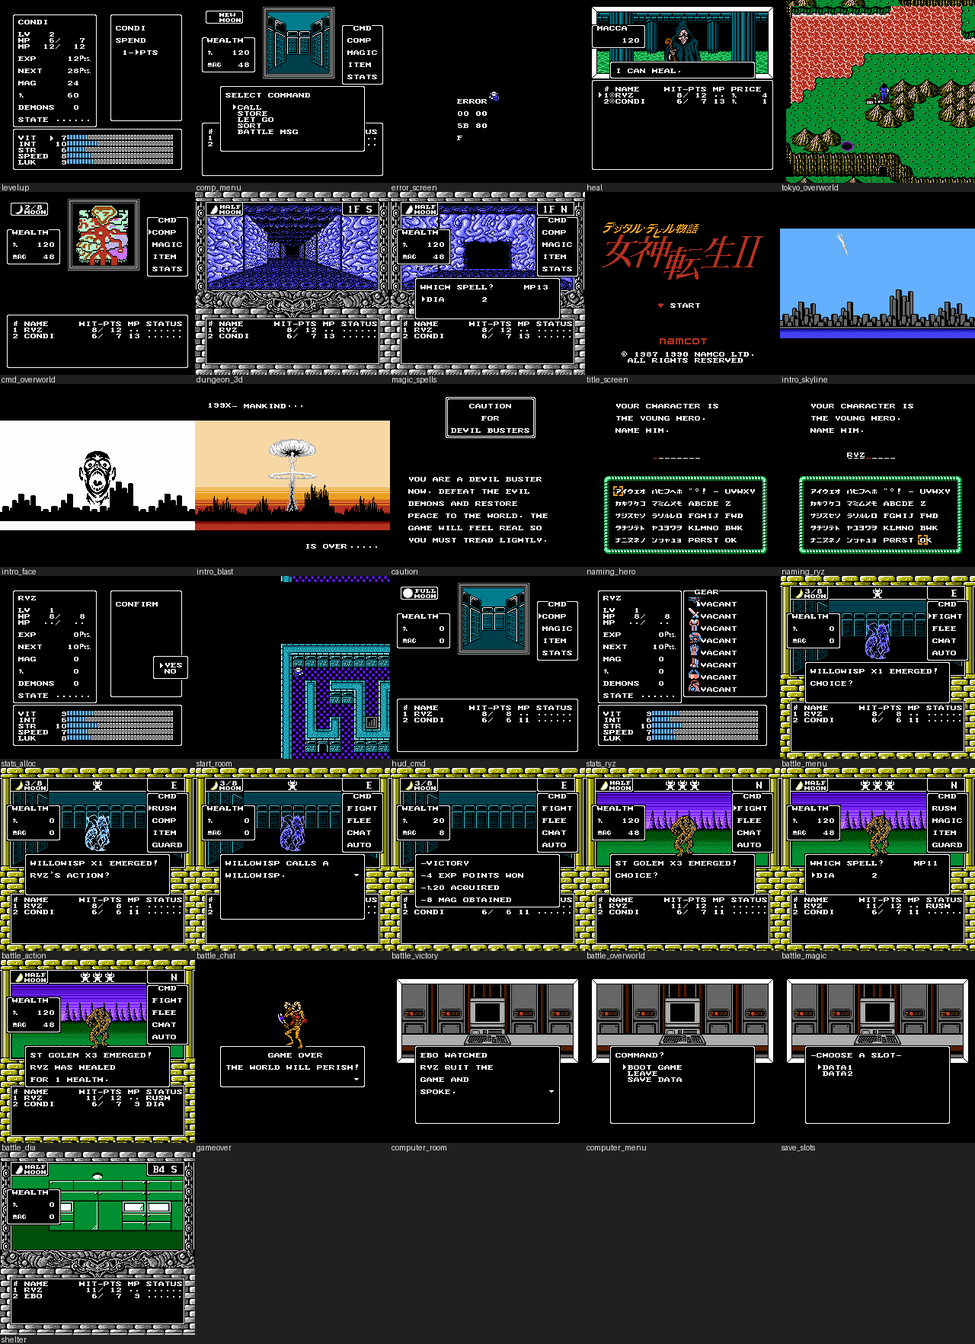
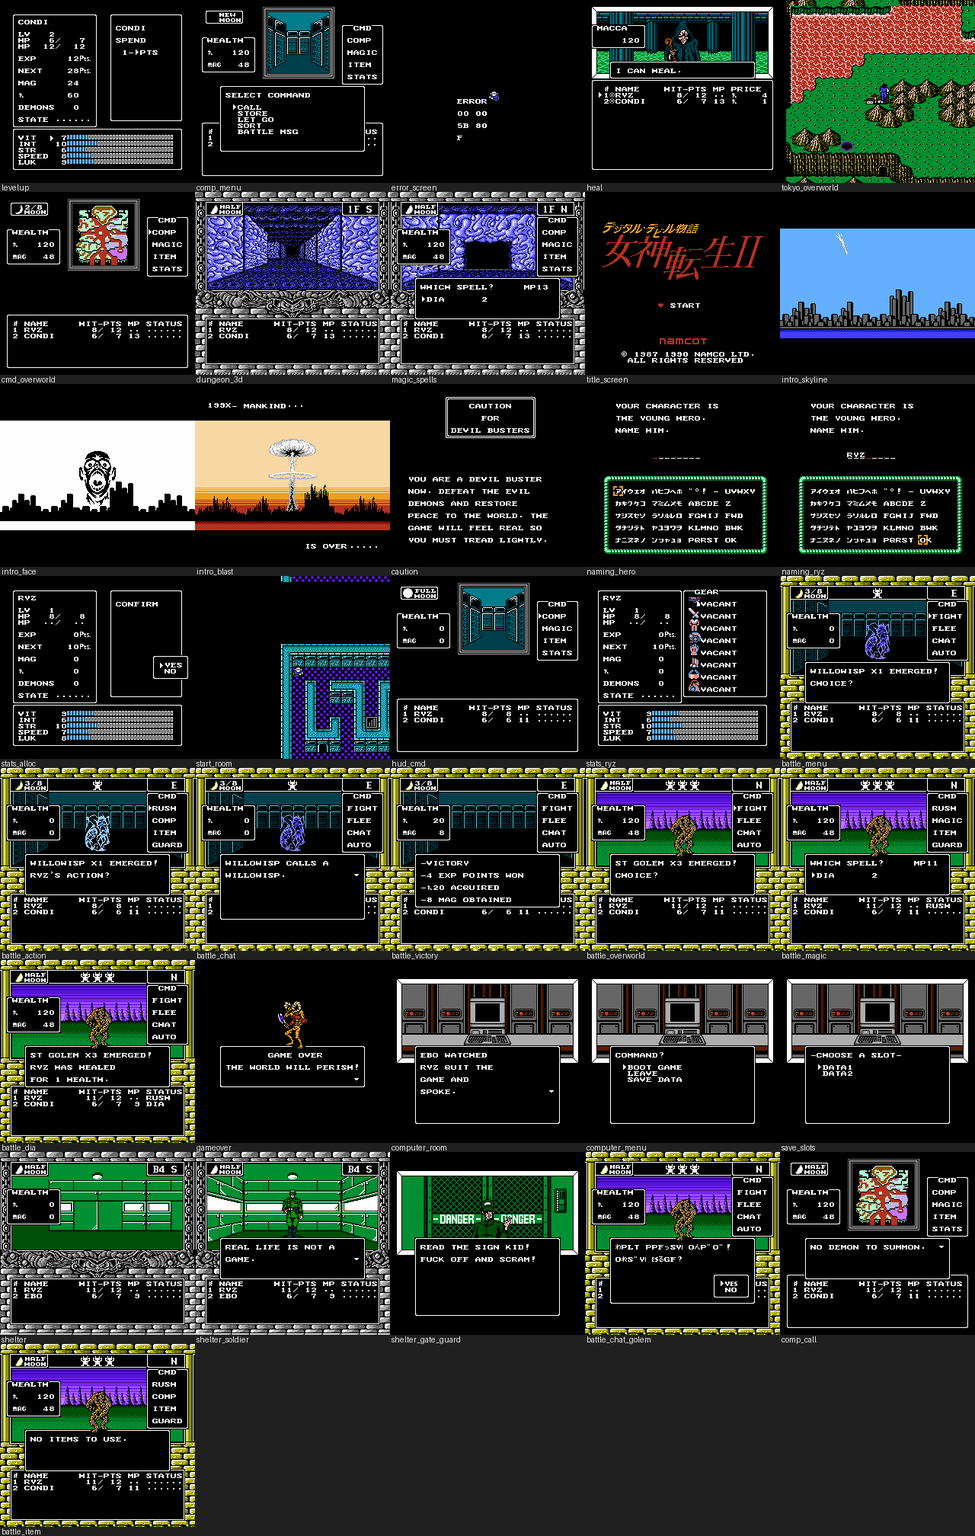
megami-tensei-2: capture - shelter, overworld, battle systems, design docs (36 shots)
Claude-Session: https://claude.ai/code/session_011YfKei1TQGbzBteuhtGM2R

diff --git a/games/megami-tensei-2/playbook.md b/games/megami-tensei-2/playbook.md
@@ -81,26 +81,29 @@ Round macro idea: `a,w60,a,w60,a,w60,a,w400` = FIGHT, RYZ RUSH, CONDI RUSH, YES.
   20 Makka, 8 MAG).
 
 ## Shot plan
-Routed lines are in `shots.txt` (15 shots, frames checked by the scout). Must-haves from the capture guide:
-- [ ] `title_screen` - title; `intro_skyline`, `intro_face`, `intro_blast` - cutscene (attract intro)
-- [ ] `caution` - cutscene - Devil Buster's opening text
-- [ ] `naming_hero`, `naming_ryz`, `stats_alloc` - menu
-- [ ] `start_room` - gameplay - first control in the Devil Buster maze
-- [ ] `hud_cmd` - hud - field command screen
-- [ ] `stats_ryz` - inventory - status page
-- [ ] `battle_menu`, `battle_action`, `battle_chat`, `battle_victory` - battle
+Capture run 2026-11-18: 36 shots in `main` (`shots.txt`, published to `shots/main/`). Ticked = captured (other id in
+brackets). Must-haves from the capture guide:
+- [x] `title_screen` - title; `intro_skyline`, `intro_face`, `intro_blast` - cutscene (attract intro)
+- [x] `caution` - cutscene - Devil Buster's opening text
+- [x] `naming_hero`, `naming_ryz`, `stats_alloc` - menu
+- [x] `start_room` - gameplay - first control in the Devil Buster maze
+- [x] `hud_cmd` (+ `cmd_overworld`) - hud - field command screen
+- [x] `stats_ryz` - inventory - status page
+- [x] `battle_menu`, `battle_action`, `battle_chat`, `battle_victory` - battle
 - [ ] `pazuzu` - cutscene/dialogue - Pazuzu after Devil Buster (needs Devil Buster finished)
-- [ ] `shelter` - gameplay - the shelter (real world, first town)
-- [ ] `save_slots` - save - the computer's SAVE DATA / "Choose a slot" screen
-- [ ] `tokyo_overworld` - map/gameplay - ruined Tokyo overhead
-- [ ] `dungeon_3d` - gameplay - first-person view in a dungeon (if dungeons switch to full 3D)
+- [x] `shelter` (+ `shelter_soldier`, `shelter_gate_guard`) - gameplay - the shelter (real world, first town)
+- [x] `save_slots` (+ `computer_menu`, `computer_room`) - save - the computer's SAVE DATA / "Choose a slot" screen
+- [x] `tokyo_overworld` - map/gameplay - ruined Tokyo overhead
+- [x] `dungeon_3d` - gameplay - first-person view in a dungeon (if dungeons switch to full 3D)
 - [ ] `automap` - map - the auto-mapping program
-- [ ] `comp_summon`, `demon_joined` - system - a demon recruited by CHAT and summoned
+- [ ] `comp_summon`, `demon_joined` (no demon joined; captured `comp_menu`, `comp_call`, `magic_spells`) - system - a demon recruited by CHAT and summoned
 - [ ] `fusion` - system - fusing two demons
-- [ ] `shop`, `heal` - shop/system
-- [ ] `levelup` - battle; `boss_nebro` - boss (B8); `tokyo_tower_witch` - dialogue
-- [ ] `gameover` - gameover
-How to reach: everything up to `battle_victory` is a checkpoint here. The rest needs Devil Buster finished
+- [ ] `shop` (not found), [x] `heal` - shop/system
+- [x] `levelup` - battle (+ `battle_magic`, `battle_dia`, `battle_item`, `battle_overworld`, `battle_chat_golem`); [ ] `boss_nebro` - boss (B8); `tokyo_tower_witch` - dialogue
+- [x] `gameover` - gameover
+Extra: `error_screen` (leftover debug screen). Not captured: `pazuzu`, `automap`, `fusion`, `shop`, `boss_nebro`,
+`tokyo_tower_witch`, a joined/summoned demon (see Strategy, capture run).
+How to reach (scout): everything up to `battle_victory` is a checkpoint here. The rest needs Devil Buster finished
 (play: floors via stairs, HP frozen, enemies' HP poked to 1), then the shelter (save there, export `01_start`).
 
 ## Strategy and walkthrough notes
@@ -113,6 +116,35 @@ How to reach: everything up to `battle_victory` is a checkpoint here. The rest n
   `down:16,w30` that changes x/y to 6F/0C) and a blue orb tile in an enclosure (not tried).
 - The goal of Devil Buster is not known yet (ROM: Pazuzu speaks after it); find the way down/the exit floor by floor
   and checkpoint every floor.
+
+### Capture run 2026-11-18: what worked
+- **The real world without finishing Devil Buster:** lose every hero inside Devil Buster (any battle; HP freezes do
+  not hold inside one token, a ST GOLEM x3 fight with `down*2,a,w10*25` killed the party). GAME OVER ("THE WORLD WILL
+  PERISH!") is followed by the computer room (EBO: "...QUIT THE GAME AND SPOKE."), then the computer menu BOOT GAME /
+  LEAVE / SAVE DATA (checkpoints `computer_room`, `computer_menu`). SAVE DATA > DATA1 saves (export `01_computer_room`);
+  LEAVE puts RYZ + EBO into the shelter B4 (checkpoint `shelter_b4`). Macca and MAG drop to 0. Whether the Pazuzu scene
+  (COMP summoning, auto-mapping, CONDI's magic) still comes later on this path is not known.
+- **No random encounters:** `freeze:037A=FF` (TCRF cheat list via web search; verified in Devil Buster, the overworld
+  and caves). TCRF also lists `04C5=FF` (alternative), `040C=01` (overworld wall walk), `DB04=FF` / `C091=FF` (wall walk),
+  and a controller-2 B debug toggle (no controller 2 here).
+- **Warps on overhead maps:** a position poke alone does not move collision. Poke `0431/0432` **8 frames into a stairs
+  transition** (step onto stairs, `w8`, poke, `w120`): the new map is drawn and walkable (frames 4-30 work). The area
+  byte `0436` decides which map and events apply at a position: the grey temple at 5B,7F is the healer's temple with
+  `0436=05`, and with `0436=04` its door (5B,7E) leads out to the Tokyo overworld at 11,2B (checkpoints `db_last`,
+  `overworld`).
+- **Event scan in first-person mazes:** poke `042F/0430` (and the copies `0433/0434`) to the square before the target
+  facing S, then `up:16,w24,w200`: the event of the target square fires. A 16x16 contact sheet of all squares finds
+  NPCs and stairs in one run (script idea from Megami Tensei I; shelter B4 events: soldier 04,05; DANGER-gate guards
+  05,07 0A,07 05,0F 0A,0F; stairs 00,02 0F,07 0F,0F). The floor below the B4 stairs (00,02) showed the same event
+  squares, so events seem to be per area, not per floor (`0436=01` in the shelter).
+- **Overhead explorer:** a breadth-first search over savestates (press each direction, keep new squares, log jumps as
+  stairs) mapped Devil Buster floor 8 and the overworld near 11,2B (the cave holes at 0E,2F and 1C,2B are cave
+  entrances). Moves are only reliable with `settle` between direction changes (`right:16,w24` per step).
+- Negotiation: answers change with the frame of the CHAT press (`wN` before it); 60 variations against a Willowisp
+  gave only "calls a Willowisp" / "THEY WILL NOT TALK!". ST GOLEMs asked YES/NO questions in untranslated text.
+- Dead ends: decoding how Devil Buster ends (floor-8 exit stairs inside a wall; the area-2 event table is empty) took
+  ~60 tool calls without an answer; the warp-table rom variant (`bytes` patch of the floor-1 stairs target) reproduced
+  the poke result exactly and was removed again.
 
 ## Naming
 Hero **RYZ**, girlfriend **CONDI**, best friend **EBO** (owner's rule; upper case is all the grid offers).
@@ -129,8 +161,9 @@ col 15 of rows 2/3/4. Cursor starts on ア (0,0) for every name. Macros `NAME_RY
 | Debug scenario list | 50 story points listed at ROM 0x16FB3 (see Game structure) | ROM text | how to open it unknown |
 | Saves from the web, codes | none found: TCRF, the manual PDF host (yojimbo.eludevisibility.org) are not reachable from here | - | - |
 
-### Saves (rom/saves/megami-tensei-2/, never committed)
-None downloaded. No in-game save before the shelter: the battery RAM at `start` holds no slot, so no `01_start`
+### Saves
+Exported: `games/megami-tensei-2/saves/01_computer_room.sav` (slot DATA1, RYZ/CONDI LV 2 at the home computer after
+the Devil Buster game over; see `saves/README.md`). None downloaded (rom/saves/megami-tensei-2/ is empty). No in-game save before the shelter: the battery RAM at `start` holds no slot, so no `01_start`
 export was made (the first export belongs after Devil Buster, at the computer's SAVE DATA).
 
 ## RAM map (for `game.json` "ram" watches and pokes)
@@ -145,6 +178,17 @@ export was made (the first export belongs after Devil Buster, at the computer's 
 | 050C / 050D | 1+1 | level RYZ / CONDI | peek (01 01) |
 | 053C + n | 1 | HP (low byte) of battle slot n: 0 RYZ, 1 CONDI, 12 (0548) first enemy; max HP at 0578 + n (enemy 0584); high bytes probably 0554 + n / 0590 + n | poke verified on screen |
 | 0564 + n | 1 | MP of slot n (0565 CONDI); max MP 05A0 + n | poke verified (MP 9) |
+| 037A | 1 | encounter control: `FF` held = no random battles | TCRF cheat (web search); verified |
+| 042F / 0430 | 1+1 | position in a first-person maze (x, y; S = y+1); copies at 0433/0434; on the overworld the world position | RAM diff; poke + step fires the target square's event (verified) |
+| 0436 | 1 | area: 03 Devil Buster floor 1, 02 other Devil Buster floors, 04 overworld, 05 building interiors, 01 shelter | peek after warps; set from the warp's target byte through a table at $D82F |
+| 0438 | 1 | area number of the last warp (byte 4 of a warp entry) | code at $DD08 |
+| 04AA / 04AB | 1+1 | event/script id set by a warp or an event square | code at $DAE4/$DD1E |
+| 0440 / 0441 | 1+1 | overhead camera top-left (player - 8, - 7) | peek |
+| 040C | 1 | map mode nibble shown on the ERROR screen; TCRF: `01` = overworld wall walk | code at $EC14 |
+
+ROM (file offsets without the 16-byte header): warp tables are 7-byte entries `x y tx|80 ty area ev1 ev2` in PRG bank
+3 (e.g. Devil Buster from 0x744D: 57,0C -> 6F,0C ...; real-world doors from ~0x7407); the event-square table per area
+is at bank 3 $ABAE (4-byte entries `x y id-lo id-hi`); warp search code at $DC97, ERROR printer at $EB5A.
 
 ## Emulation notes
 - NTSC, defaults fine. Mapper 19 (Namco 163) runs in Mesen without trouble; the patched text renders cleanly
@@ -161,6 +205,10 @@ export was made (the first export belongs after Devil Buster, at the computer's 
 All in `checkpoints.txt`; built from an empty cache and compared with a cache hit: identical frames
 (2026-11-18) for `title`, `naming`, `start`, `battle_willowisp`, `won_willowisp`. `battle_willowisp` has a long
 route (menu tests and walking on two floors) because the encounter depends on its exact frame timing: do not tidy it.
+Capture run 2026-11-18 added: `db_f1_back` (floor 1 again, LV 2, 120 Macca) -> `db_last` (warp poke to 5B,7F) ->
+`overworld` (11,2B) -> `dungeon_1f` (cave) / `battle_golem` -> `golem_r2` -> `computer_room` (game over) ->
+`computer_menu` -> `saved_data1` (DATA1 saved) ; `computer_menu` -> `shelter_b4` (LEAVE) -> `shelter_stairs1`.
+All routes are deterministic; every shot built on them passed `--verify`.
 
 ## Sources
 | Source | URL | Used for | Accessed |
@@ -170,6 +218,11 @@ route (menu tests and walking on two floors) because the encounter depends on it
 | TCRF, manual PDF (yojimbo.eludevisibility.org), almarsguides walkthrough | https://www.tcrf.net/Digital_Devil_Story:_Megami_Tensei_II , https://yojimbo.eludevisibility.org/Stardust_Crusaders_Files/complete/NES/mt2files/Digital%20Devil%20Story%20Megami%20Tensei%202%20Manual.pdf , https://almarsguides.com/retro/walkthroughs/nes/Games/DigitalDevilStoryMegamiTenseiII/ | hosts not resolvable from this session (outside the allowed network); for the owner / an allowed session | 2026-11-18 |
 
 ## Open questions
+- (capture run) How Devil Buster is meant to end and how the Pazuzu scene is triggered; whether it still happens after
+  quitting Devil Buster by a game over. Next idea: from `shelter_b4`, play the shelter (gates, other floors) and watch
+  for Pazuzu at the computer (BOOT GAME); or find the script that prints "BORN FROM FIRE AND STORM" (bank 12, file
+  0x183E8) and the event id that starts it, then poke `04AA/04AB`.
+- (capture run) Where demons join (no join in ~80 CHAT tries) and where the first shop is.
 - How Devil Buster ends (which floor, a boss?) and where the first save point is (the home computer?).
 - Does the title get a CONTINUE entry once a slot is saved? Load route for `sav:` saves.
 - The 50-entry story-point list: a debug menu? Which code reads the pointer table (PRG bank 11, $CF00 area)?

diff --git a/games/megami-tensei-2/design/world.md b/games/megami-tensei-2/design/world.md
@@ -1,0 +1,56 @@
+# World and structure - Devil Buster, the shelter, Tokyo
+
+## Overview
+The game opens inside **Devil Buster**, a computer game the hero plays: an overhead maze of eight connected floors
+linked by stairs, with random battles **(verified, warp table read from the ROM: (RAM))**. Losing a fight inside
+Devil Buster is not the end: the GAME OVER page ("THE WORLD WILL PERISH!") is followed by the real-world computer
+room, where the best friend (EBO) laughs at the hero for quitting, and the home computer offers BOOT GAME / LEAVE /
+SAVE DATA **(verified: shots `gameover`, `computer_room`, `computer_menu`)**. LEAVE puts the hero and his friend in
+the **shelter**, a first-person maze (floor B4 at first) guarded by soldiers **(verified: `shelter`,
+`shelter_soldier`, `shelter_gate_guard`)**. Outside lies an overhead map of ruined Tokyo with first-person caves and
+buildings **(verified: `tokyo_overworld`, `dungeon_3d`, `heal`)**.
+
+## 1. Views
+- **Overhead maps:** Devil Buster and the Tokyo overworld are drawn from above; one step is one 16-pixel square
+  **(verified)**. Walking onto a stairs square changes floor at once, without a fade **(verified)**.
+- **First-person mazes:** caves, the shelter and buildings use a large first-person view with the floor and facing
+  ("1F S", "B4 S") in the top right and the moon phase top left **(verified: `dungeon_3d`, `shelter`)**. Up steps
+  forward, Down turns round, Left/Right turn **(verified)**. Walking back out of the entrance square returns to the
+  overworld **(verified)**.
+- **Field command screen** (A): moon phase, WEALTH (Macca, MAG), a picture window (the corridor ahead in a maze, a
+  landscape picture on the overworld), CMD COMP / MAGIC / ITEM / STATS and the party list **(verified: `hud_cmd`,
+  `cmd_overworld`)**.
+
+## 2. Devil Buster floors
+Eight floors, each a 24 x 24 block of one large map; stairs come in pairs (down and back up) **(RAM: warp table)**.
+| From floor | Stairs to | Notes |
+|---|---|---|
+| 1 | 2 | the first room's stairs square **(verified)** |
+| 2 | 3 | |
+| 3 | 4 | six pairs of stairs between floors 3 and 4 (a stairs maze) **(RAM)** |
+| 4 | 5 | |
+| 5 | 6 | |
+| 6 | 7 | |
+| 7 | 8 | arrival square on floor 8 **(verified)** |
+| 8 | ? | the last listed stairs sit inside the top wall of floor 8 and cannot be walked onto **(verified)**; their target is drawn as a grey stone temple where every step reports ERROR (see findings) |
+How Devil Buster is meant to be completed (the scenario text has the freed demon Pazuzu speak after it) was not found
+in this run **(verified: not reached)**.
+
+## 3. Places seen
+| Place | What is there | Evidence |
+|---|---|---|
+| Computer room | the home computer; EBO's remarks after a Devil Buster game over; BOOT GAME / LEAVE / SAVE DATA | `computer_room`, `computer_menu` (verified) |
+| Shelter B4 | green metal corridors; a soldier ("REAL LIFE IS NOT A GAME."); guards at four DANGER gates who turn the boys away; three staircases ("USE THE STAIRS?" YES/NO) | `shelter`, `shelter_soldier`, `shelter_gate_guard` (verified) |
+| Floor below the B4 stairs | grey stone corridors with a ladder hole | checkpoint `shelter_stairs1` (verified) |
+| Healer's temple | grey stone hall with statues and pools; a hooded healer ("I CAN HEAL.") | `heal` (verified) |
+| Tokyo overworld | red wasteland, grass, hills, a settlement, cliff caves, purple holes that lead into caves | `tokyo_overworld` (verified) |
+| Cave 1F | blue organic rock corridors | `dungeon_3d` (verified) |
+
+## 4. Saving
+The home computer's SAVE DATA offers two slots, DATA1 and DATA2 **(verified: `save_slots`)**. The confirmation line
+after saving is printed as unreadable characters in this translation (findings) **(verified)**.
+
+## Open questions
+- How Devil Buster ends and how the Pazuzu scene is reached (the summoning and auto-mapping programs come from it).
+- Where the first shop is; the events of the other shelter floors.
+- Whether BOOT GAME resumes Devil Buster where it was left.

diff --git a/games/megami-tensei-2/design/combat.md b/games/megami-tensei-2/design/combat.md
@@ -1,0 +1,51 @@
+# Combat, magic, negotiation and growth
+
+## Overview
+Battles start at random while walking (overhead and first-person) and are fought from a first-person view: the
+enemy picture over a backdrop that depends on the place (Devil Buster's walls, a purple sky over grass outdoors)
+**(verified: `battle_menu`, `battle_overworld`)**. Each round the player picks FIGHT, FLEE, CHAT or AUTO, then one
+command per hero, then confirms with "IS THIS CORRECT?" YES/NO **(verified)**. Victory pays experience, Macca and
+magnetite (MAG) **(verified: `battle_victory`)**; a level up lets the player add a point to one of five stats
+**(verified: `levelup`)**.
+
+## 1. Commands
+| Hero | Commands | Notes |
+|---|---|---|
+| Hero (RYZ) | RUSH / COMP / ITEM / GUARD | COMP summons demons from the program **(verified: `battle_action`)** |
+| Girlfriend (CONDI) | RUSH / MAGIC / ITEM / GUARD | MAGIC lists her spells with their MP cost **(verified: `battle_magic`)** |
+ITEM with an empty bag answers "NO ITEMS TO USE." **(verified: `battle_item`)**. The friend EBO takes the second
+slot in the shelter, with the same numbers the girlfriend had **(verified: `shelter`)**.
+
+## 2. Magic
+- DIA: heals one hero, 2 MP; usable in and out of battle (MAGIC > "WHO SHOULD CAST?" > "WHICH SPELL?")
+  **(verified: `magic_spells`, `battle_dia`)**. One cast in battle healed RYZ "FOR 1 HEALTH" when he was 1 below his
+  maximum **(verified)**; the full amount is not measured.
+- The spell list in the cartridge also names MEND, MENDALL, POISUMDI, PARALAD, PETRADI and MAPPER **(RAM: ROM text)**.
+
+## 3. Negotiation (CHAT)
+- "RYZ CONVERSES.." then the demon answers. Seen answers: it calls another of its kind ("WILLOWISP CALLS A
+  WILLOWISP."), "THEY WILL NOT TALK!", or a question with a YES/NO box **(verified: `battle_chat`,
+  `battle_chat_golem`)**.
+- The answer depends on the frame the command is given: over 60 one-frame variations a Willowisp in Devil Buster
+  only ever called a friend or refused; ST GOLEMs on the overworld also asked questions **(verified)**.
+- No demon joined in this run; the COMP's CALL then says "NO DEMON TO SUMMON." **(verified: `comp_call`)**.
+
+## 4. Rewards and growth
+| Fight | EXP | Macca | MAG | Evidence |
+|---|---|---|---|---|
+| Willowisp x1 | 4 | 20 | 8 | `battle_victory` (verified) |
+| Willowisp x2 | 8 | 40 | 16 | play (verified) |
+Rewards scale with the number of enemies beaten: 4 EXP, 20 Macca and 8 MAG per Willowisp **(computed from the two
+rows)**. Level 2 came at 12 EXP; the status page then shows NEXT 28 **(verified: `levelup`)**. At level 2 the hero's
+maximum HP went from 8 to 12 and the girlfriend's from 6 to 7, her MP from 11 to 12-13 **(verified)**. Each level up
+gives each hero one point to spend ("SPEND 1 PTS") **(verified)**.
+
+## 5. Healing and defeat
+- The healer charges per hero; with RYZ 4 HP below his maximum and CONDI 1 below, the prices were 4 and 1 Macca:
+  1 Macca per missing HP at this level **(verified: `heal`; inferred rate from one sample)**.
+- When every hero falls: GAME OVER, "THE WORLD WILL PERISH!" **(verified: `gameover`)**. Inside Devil Buster this
+  only ends the computer game and the story continues in the computer room with 0 Macca and 0 MAG **(verified)**.
+
+## Open questions
+- Damage formulas, DIA's heal amount, flee chance, what AUTO does.
+- What a YES or NO answer changes in negotiation; how demons join; summoning cost in MAG.

diff --git a/games/megami-tensei-2/design/findings.md b/games/megami-tensei-2/design/findings.md
@@ -23,3 +23,37 @@ original Japanese release as well as the translation; it looks like a developer'
 **Intended:** a debugging aid removed from normal play (inferred).
 **Confidence:** (inferred) from the text; no way to open it has been found.
 **Impact:** none in normal play.
+
+## A leftover ERROR screen for event squares without a script
+**Behavior:** stepping onto an event square that has no entry for the current area shows a black screen with
+"ERROR", two pairs of hex numbers (world position and map position) and a letter, and the game stops there. Seen when
+the Devil Buster floor-8 stairs target (a grey temple) is reached with Devil Buster's area still active, and when
+walking off the bottom edge of that map (shot `error_screen`, checkpoint `db_last`).
+**Intended:** a developer check that should never show in normal play (inferred).
+**Confidence:** (verified) for the screen; (inferred) that normal play cannot reach it.
+**Impact:** none in normal play; a softlock if reached.
+
+## The last Devil Buster stairs are inside a wall
+**Behavior:** the stairs pair listed last for Devil Buster (floor 8 to a grey stone temple) starts on a square of
+floor 8's top wall that no step can enter; its target, when forced, is a pocket where every step reports ERROR.
+**Intended:** unclear: either used by a script after the Devil Buster finale or left over from development.
+**Confidence:** (verified) for the wall; (RAM) for the stairs list.
+**Impact:** none for a player.
+
+## Untranslated lines show as garbage letters
+**Behavior:** some lines are printed as random Latin letters and symbols: the confirmation after SAVE DATA
+("G3HL-LP" instead of a "recorded" message) and the ST GOLEM's negotiation questions and answers (shot
+`battle_chat_golem`). The bytes are the original Japanese text drawn with the English font.
+**Intended:** translated text (the patch's own save prompts "WANT TO SAVE? / CHOOSE A SLOT. / RECORDED." exist in the
+ROM).
+**Confidence:** (verified) on screen; whether the patch leaves these lines out or one part was applied with the wrong
+layout is not known.
+**Impact:** negotiation, a core system, is unreadable in places.
+
+## A Devil Buster game over continues the story
+**Behavior:** losing every hero inside Devil Buster shows GAME OVER and then the real-world computer room ("EBO
+WATCHED RYZ QUIT THE GAME AND SPOKE."); the party keeps its levels but Macca and MAG drop to 0 (route of
+`computer_room`).
+**Intended:** yes: quitting the computer game is part of the story frame (inferred).
+**Confidence:** (verified).
+**Impact:** a player can leave Devil Buster at any time by losing; whether the Pazuzu scene still follows is not known.

diff --git a/games/megami-tensei-2/shots/main/index.md b/games/megami-tensei-2/shots/main/index.md
@@ -1,6 +1,6 @@
 # Digital Devil Monogatari: Megami Tensei II (Famicom, English translation patch) - shots: main
 
-Platform nes, model ntsc, ROM SHA-1 `59641a60e019e4fc7d16b606b0bf2df0abd68595`. 31 shots. Contact sheet: [sheet.png](sheet.png). Originals here, 3x nearest-neighbour copies with the same names in `3x/`.
+Platform nes, model ntsc, ROM SHA-1 `59641a60e019e4fc7d16b606b0bf2df0abd68595`. 36 shots. Contact sheet: [sheet.png](sheet.png). Originals here, 3x nearest-neighbour copies with the same names in `3x/`.
 
 | id | category | caption | settled | image |
 |---|---|---|---|---|
@@ -35,5 +35,10 @@ Platform nes, model ntsc, ROM SHA-1 `59641a60e019e4fc7d16b606b0bf2df0abd68595`. 
 | computer_menu | menu | Home computer: COMMAND? BOOT GAME / LEAVE / SAVE DATA | yes | [png](computer_menu.png) [3x](3x/computer_menu.png) |
 | save_slots | save | SAVE DATA: "-CHOOSE A SLOT-" DATA1 / DATA2 | yes | [png](save_slots.png) [3x](3x/save_slots.png) |
 | shelter | gameplay | The shelter, B4: first-person corridor, RYZ and his friend EBO, 0 Macca after the game | yes | [png](shelter.png) [3x](3x/shelter.png) |
+| shelter_soldier | dialogue | Shelter B4: a soldier, "REAL LIFE IS NOT A GAME." | yes | [png](shelter_soldier.png) [3x](3x/shelter_soldier.png) |
+| shelter_gate_guard | dialogue | Shelter gate: a guard at the DANGER fence, "READ THE SIGN KID! ... SCRAM!" | yes | [png](shelter_gate_guard.png) [3x](3x/shelter_gate_guard.png) |
+| battle_chat_golem | battle | CHAT with a ST GOLEM: the demon asks a YES/NO question (this line shows untranslated text) | no | [png](battle_chat_golem.png) [3x](3x/battle_chat_golem.png) |
+| comp_call | system | COMP > CALL with no demons in stock: "NO DEMON TO SUMMON." (overworld view picture) | yes | [png](comp_call.png) [3x](3x/comp_call.png) |
+| battle_item | battle | Battle ITEM for RYZ with an empty bag: "NO ITEMS TO USE." | no | [png](battle_item.png) [3x](3x/battle_item.png) |
 
 Routes (replay with `tools/shoot.py`) are in `index.json` and `shots.txt`.

diff --git a/games/megami-tensei-2/design/README.md b/games/megami-tensei-2/design/README.md
@@ -40,6 +40,8 @@ girlfriend starts with MP 11 **(verified)**.
 ## Documents
 | Document | Covers |
 |---|---|
+| [world.md](world.md) | Devil Buster floors, the computer room, the shelter, the overworld, saving |
+| [combat.md](combat.md) | battle commands, magic, negotiation, rewards, level up, healing, game over |
 | [findings.md](findings.md) | quirks, exploits, likely bugs |
 <!-- Planned: controls-and-feel.md, characters.md (stats, levels), combat.md, demons.md (negotiation, fusion, moon), world.md (Devil Buster floors, Tokyo areas), economy.md -->
 <!-- Add one document per system, e.g. controls-and-feel.md (movement, physics, input), progression.md (levels,
